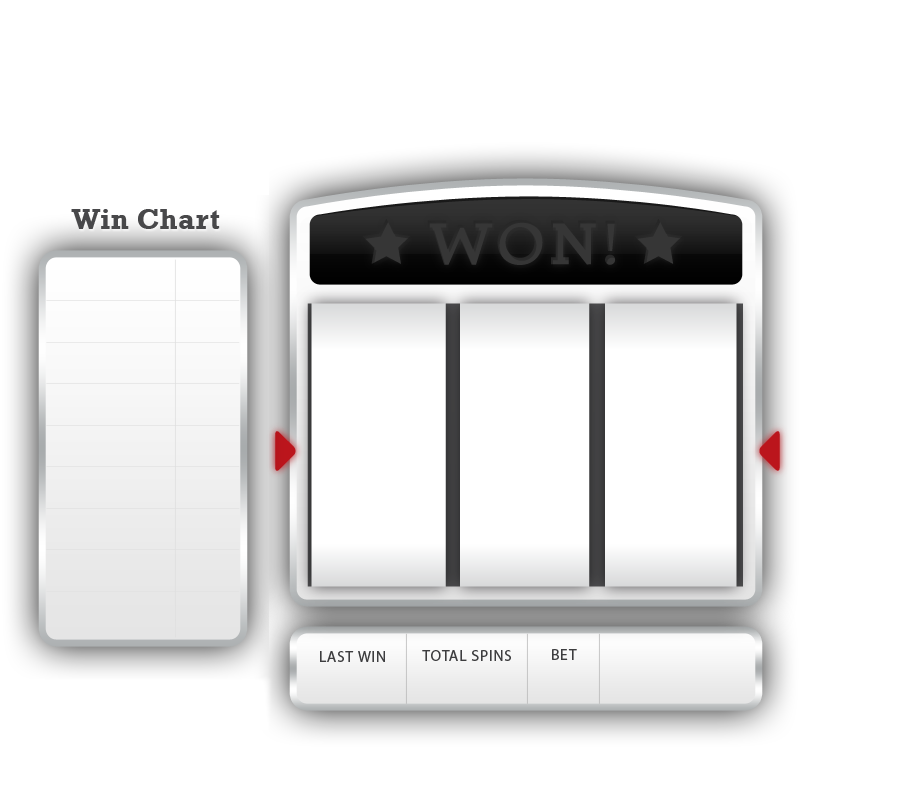
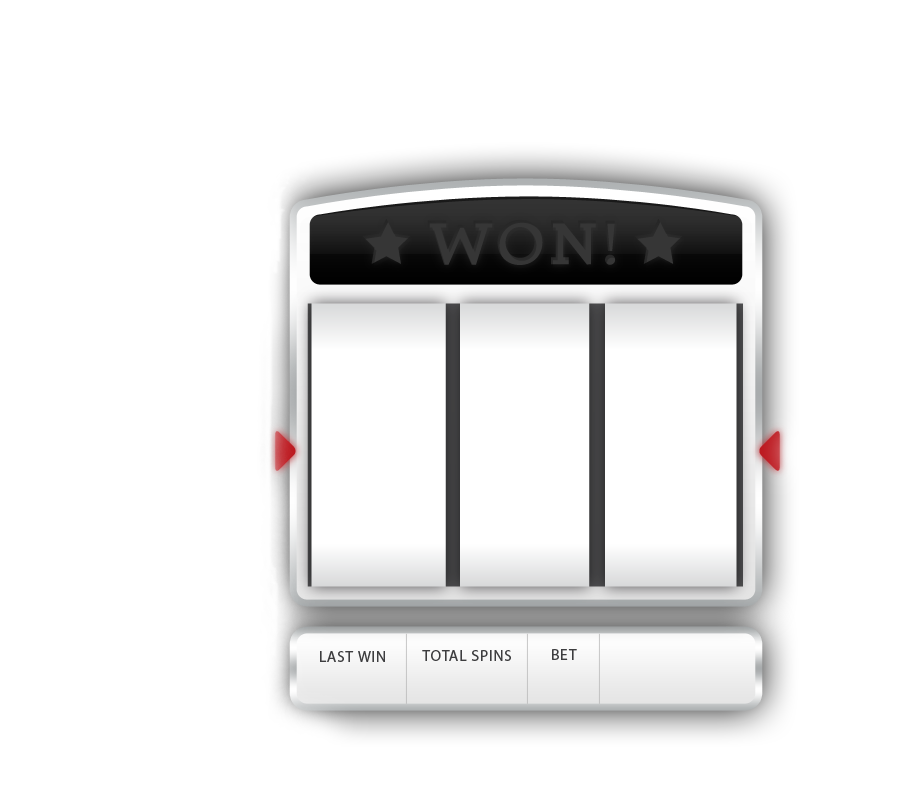
All Lipstick

Changed region(s): [[0.0, 0.25, 0.3733, 0.9062], [0.84, 0.5312, 0.8711, 0.5938]]

diff --git a/TestDirecTV/js/slots.js b/TestDirecTV/js/slots.js
@@ -3,7 +3,7 @@ var slotMachine = {
     // Set the proper height for the reels in the CSS file, rule: #slotMachineContainer #ReelContainer .reel
     // Set it to 3 * stripHeight
     // Also set the top property to the initial position you want to show
-    stripHeight:720, // Update this to match the strip PNG
+    stripHeight: 720, // Update this to match the strip PNG
     //stripHeight: 5760,
     //alignmentOffset: 100, // Play around with this until reels are properly aligned post-spin
     alignmentOffset: 1,
@@ -61,15 +61,15 @@ var slotMachine = {
 
         //$('#soundOffButton').click(function() { slotMachine.toggle_sound(); });
 
-        if (slotMachine.soundEnabled)  {
-        	soundManager.setup({
-        		url: "/js/",
-        		onready: function() {
-        			slotMachine.sounds['payout'] = soundManager.createSound({id: "payout", url: '/sounds/payout.mp3'});
-        			slotMachine.sounds['fastpayout'] = soundManager.createSound({id: "fastpayout", url: '/sounds/fastpayout.mp3'});
-        			slotMachine.sounds['spinning'] = soundManager.createSound({id: "spinning", url: '/sounds/spinning.mp3'});
-        		}
-        	});
+        if (slotMachine.soundEnabled) {
+            soundManager.setup({
+                url: "/js/",
+                onready: function () {
+                    slotMachine.sounds['payout'] = soundManager.createSound({ id: "payout", url: '/sounds/payout.mp3' });
+                    slotMachine.sounds['fastpayout'] = soundManager.createSound({ id: "fastpayout", url: '/sounds/fastpayout.mp3' });
+                    slotMachine.sounds['spinning'] = soundManager.createSound({ id: "spinning", url: '/sounds/spinning.mp3' });
+                }
+            });
         }
 
         //if (slotMachine.get_balance() < minBet) {
@@ -175,6 +175,8 @@ var slotMachine = {
         var getResults = function () {
             questionSet = Math.floor(Math.random() * 4) + 1;
             return { success: true, reels: [questionSet, questionSet, questionSet], prize: 1, credits: 10, dayWinnings: 10, lifetimeWinnings: 500 }
+
+           
         }
 
         spinData = getResults();
@@ -271,7 +273,26 @@ var slotMachine = {
 
         // Add code to display message for going to next screen
         // currently just removes some elements for a visual effect, needs polishing
-        $("#PageContainer").remove();
+
+
+        //var doStuff = $("#spinButton").hasClass("disabledbutton") //this command is checking to see if #spinButton has class of "disabledbutton")
+        //if (doStuff == true) {
+        //    console.log("Look at 'em spining")
+        //    $("#userImage").html("<h1> Thanks, good lookin'!  Please visit the next screen.</h1>");
+        //} else {
+        //    console.log("press the globe to spin")
+        //}
+
+
+        $("#userImage").remove(); // this removes the user image since it's already been sitting in view since page load
+
+        $(".clearBackground").html("<br /><br /><br /><br /><br /><br /><br /><br /><br /><br /><br /><center><h1><strong> Thanks, good lookin'!</strong> <br />  Please visit the next screen.</h1><center>");
+
+        $("#PageContainer").remove(); //this removes the slot machine after it's been played
+
+       
+
+
     },
 
     _increment_payout_counter: function (data) {
